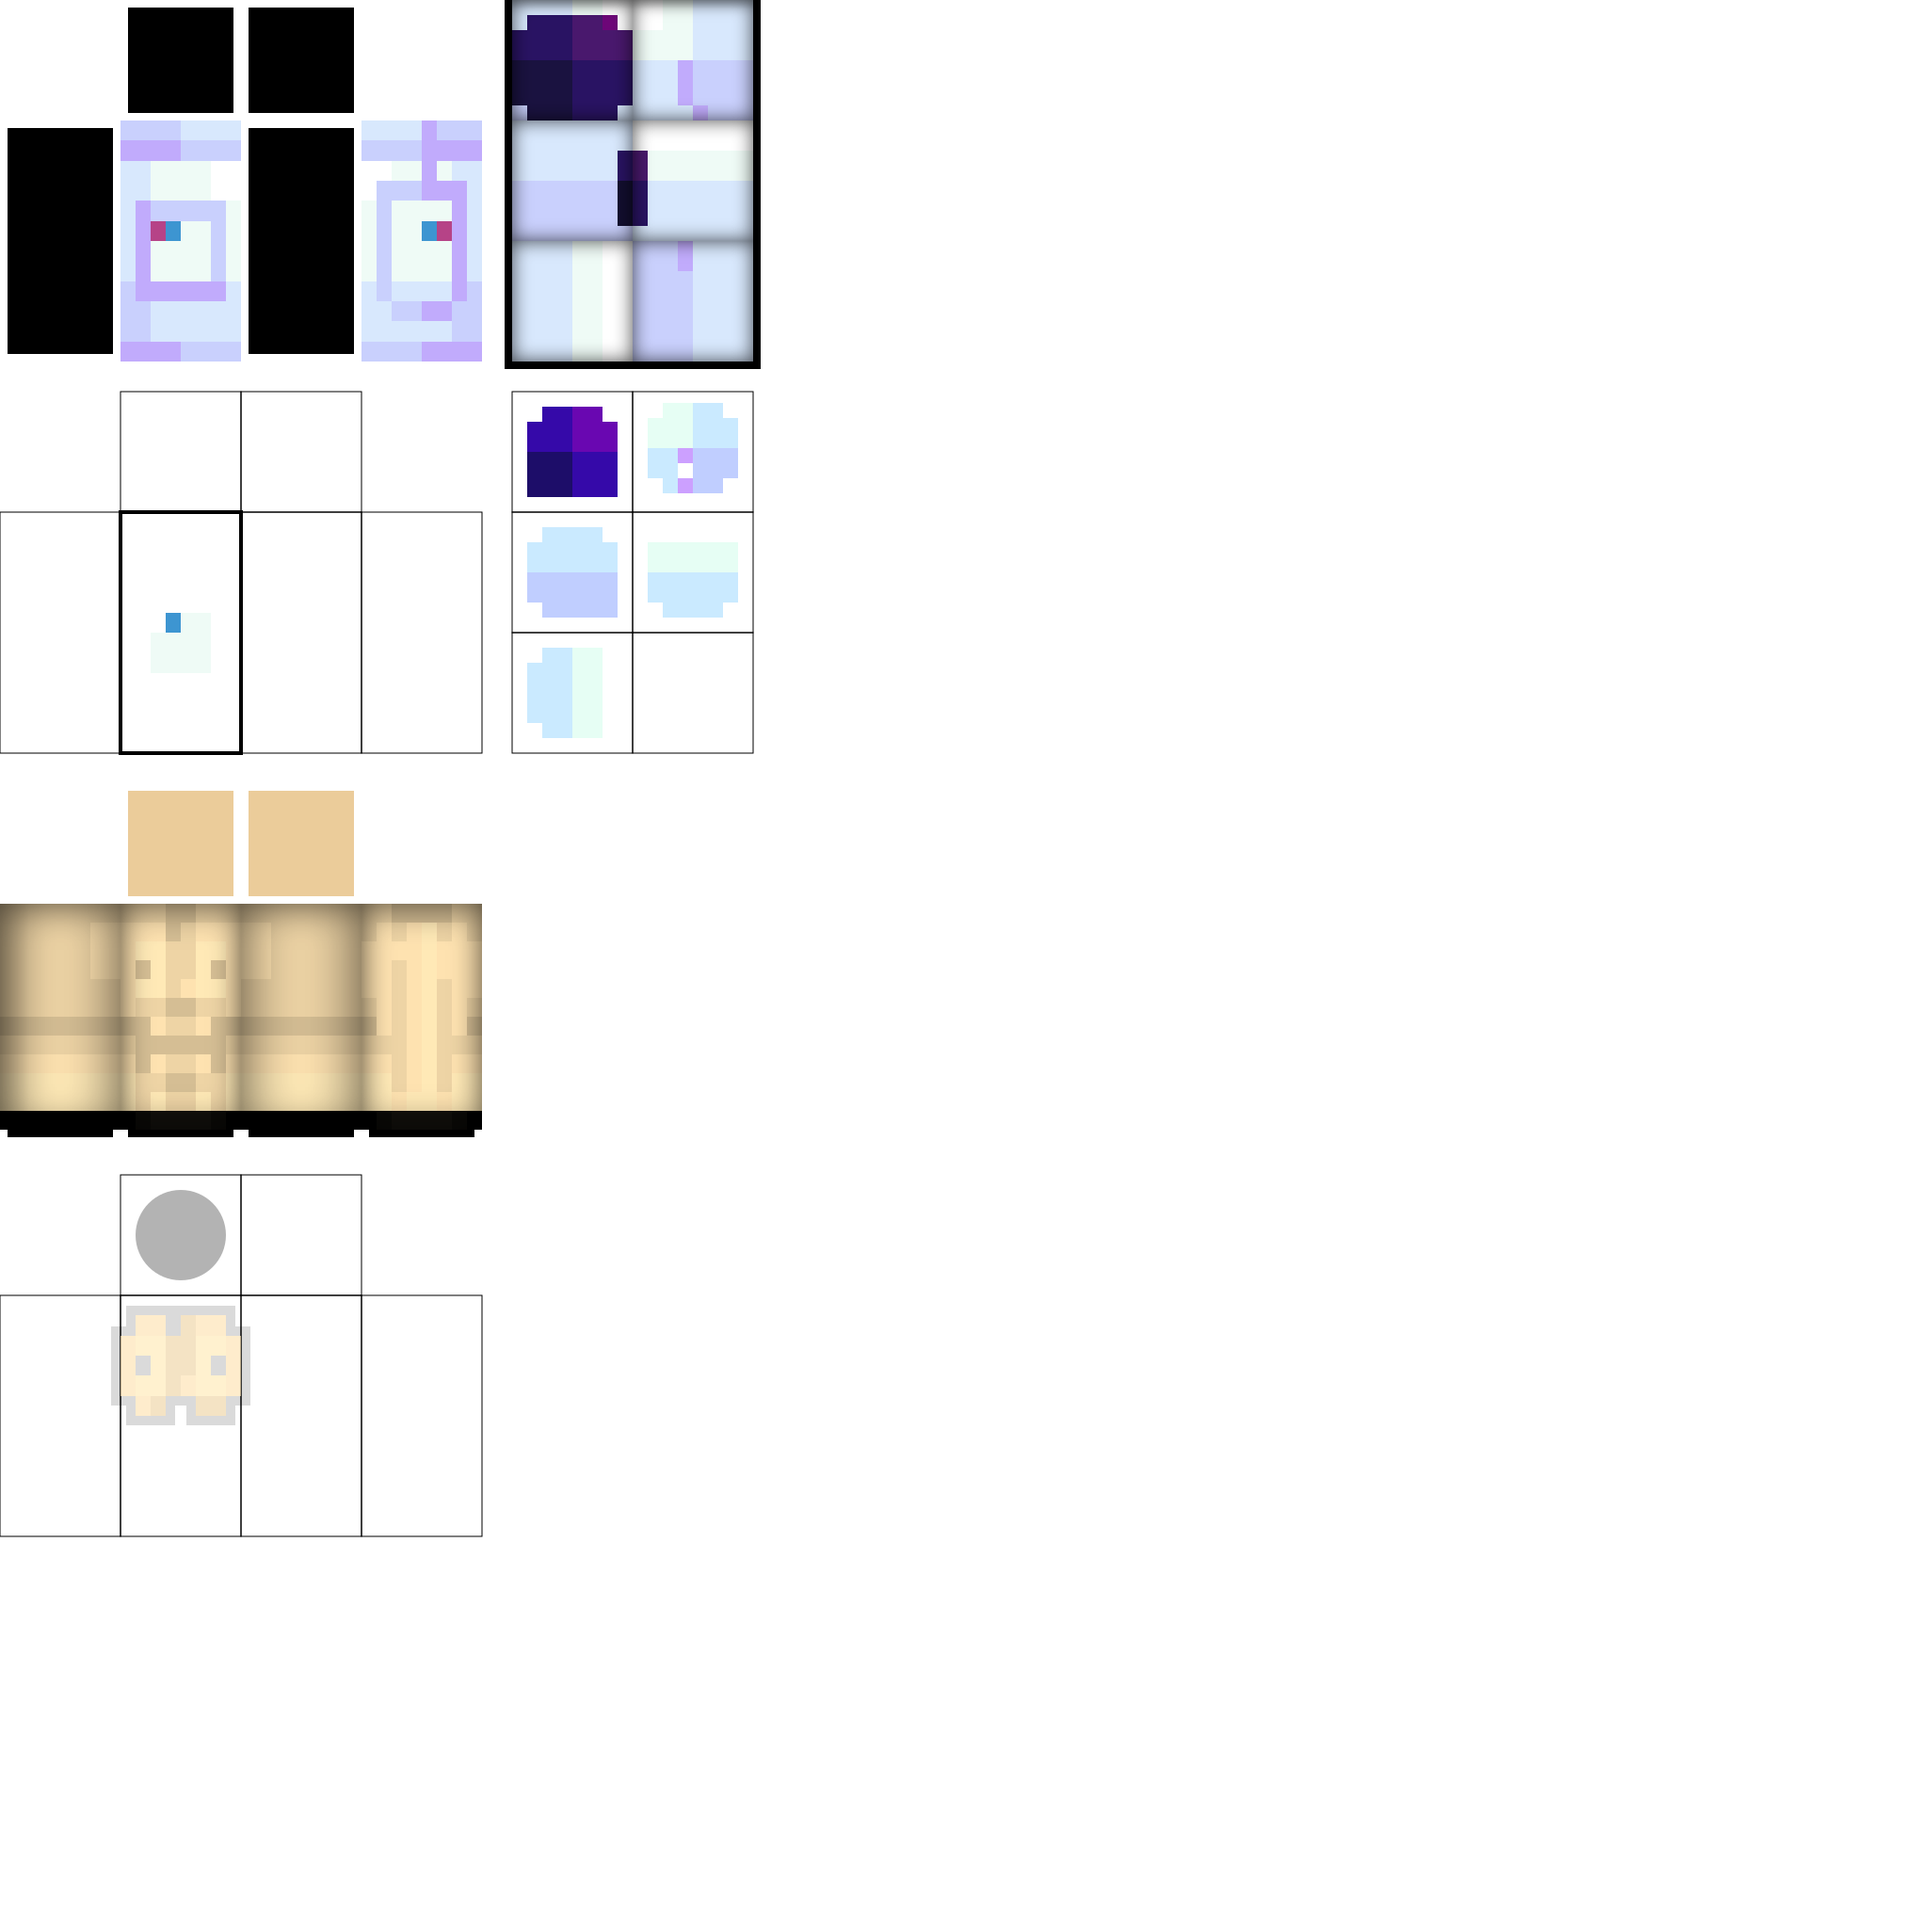
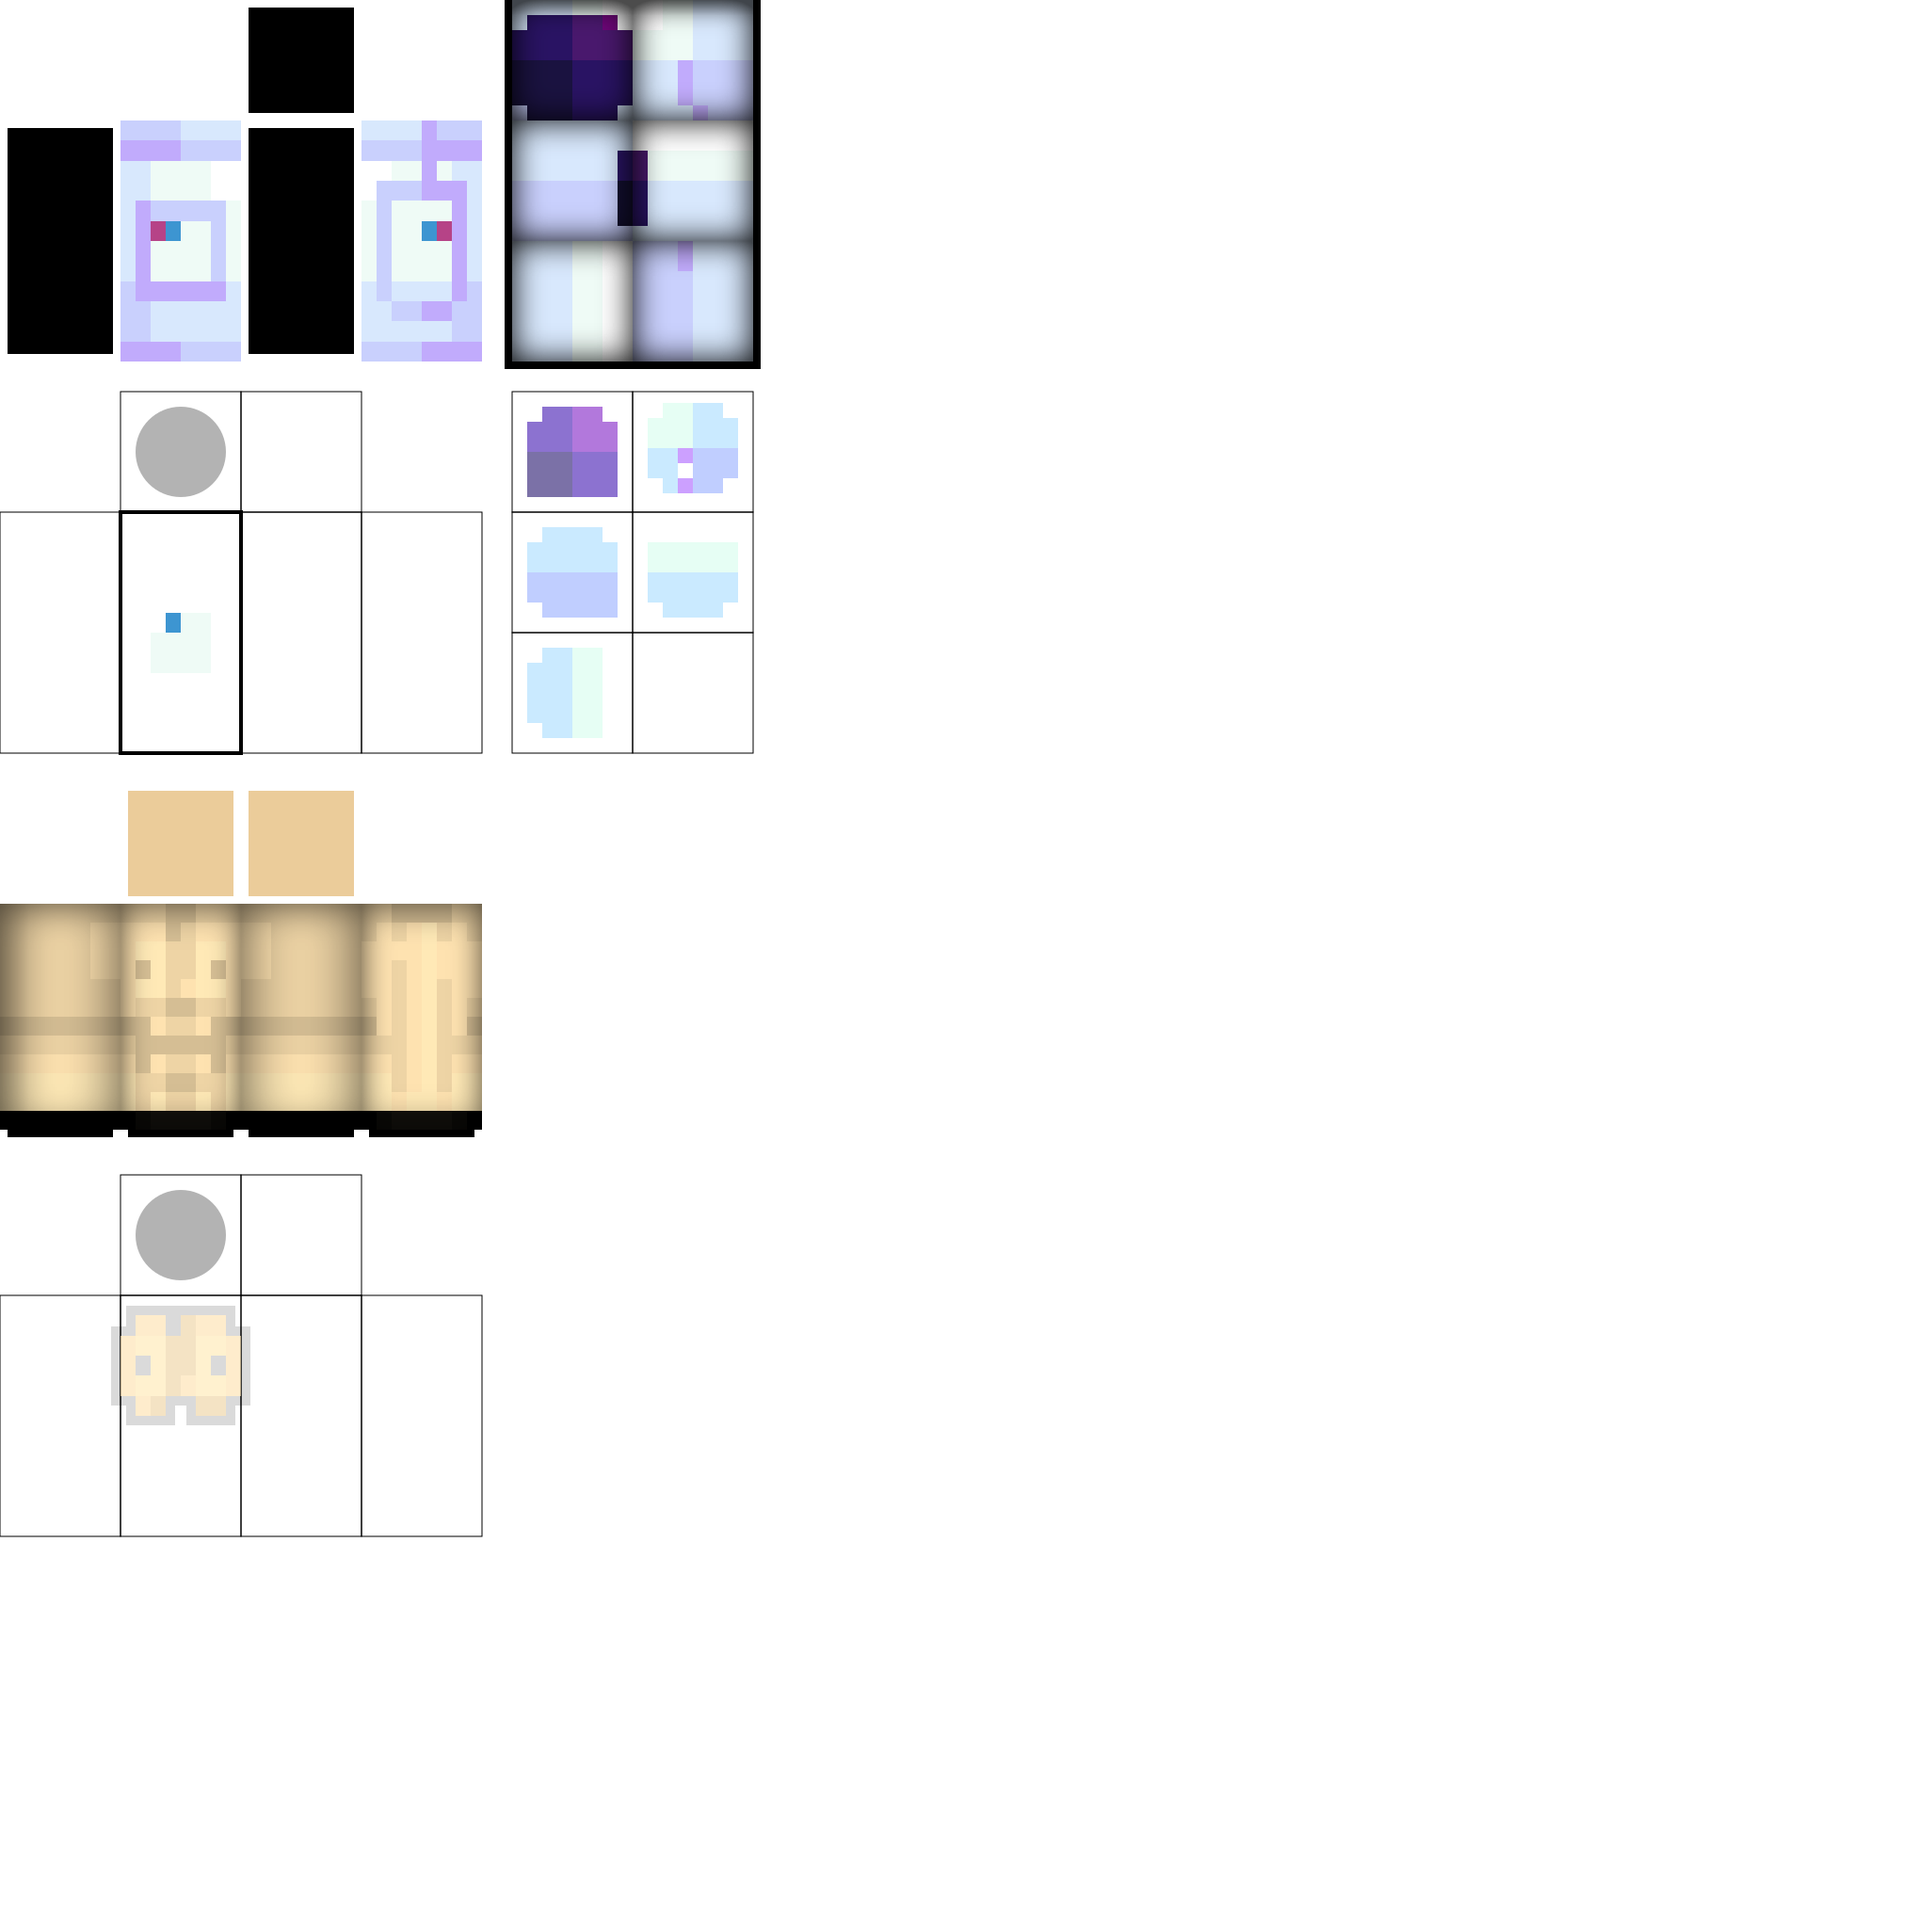
feat: astronaut -> astronaut-0, inner-shadows and overlay head shadow

Changed region(s): [[0.25, 0.0, 0.4062, 0.2812], [0.0625, 0.0, 0.125, 0.0625], [0.0625, 0.2188, 0.125, 0.25]]

diff --git a/docs/TODO.md b/docs/TODO.md
@@ -206,7 +206,10 @@
 - 🚧 replace police-0 -> robot-0
   - ✅ replace head, head-overlay
   - replace body, body-overlay
+    - put body-overlay in second sheet (overwrite bare-0)
   - rename police-0 -> robot-0
+
+- rename astronaut-0 -> robot-1
 
 - 🚧 look towards neighbour should be optional
   - could also improve it
